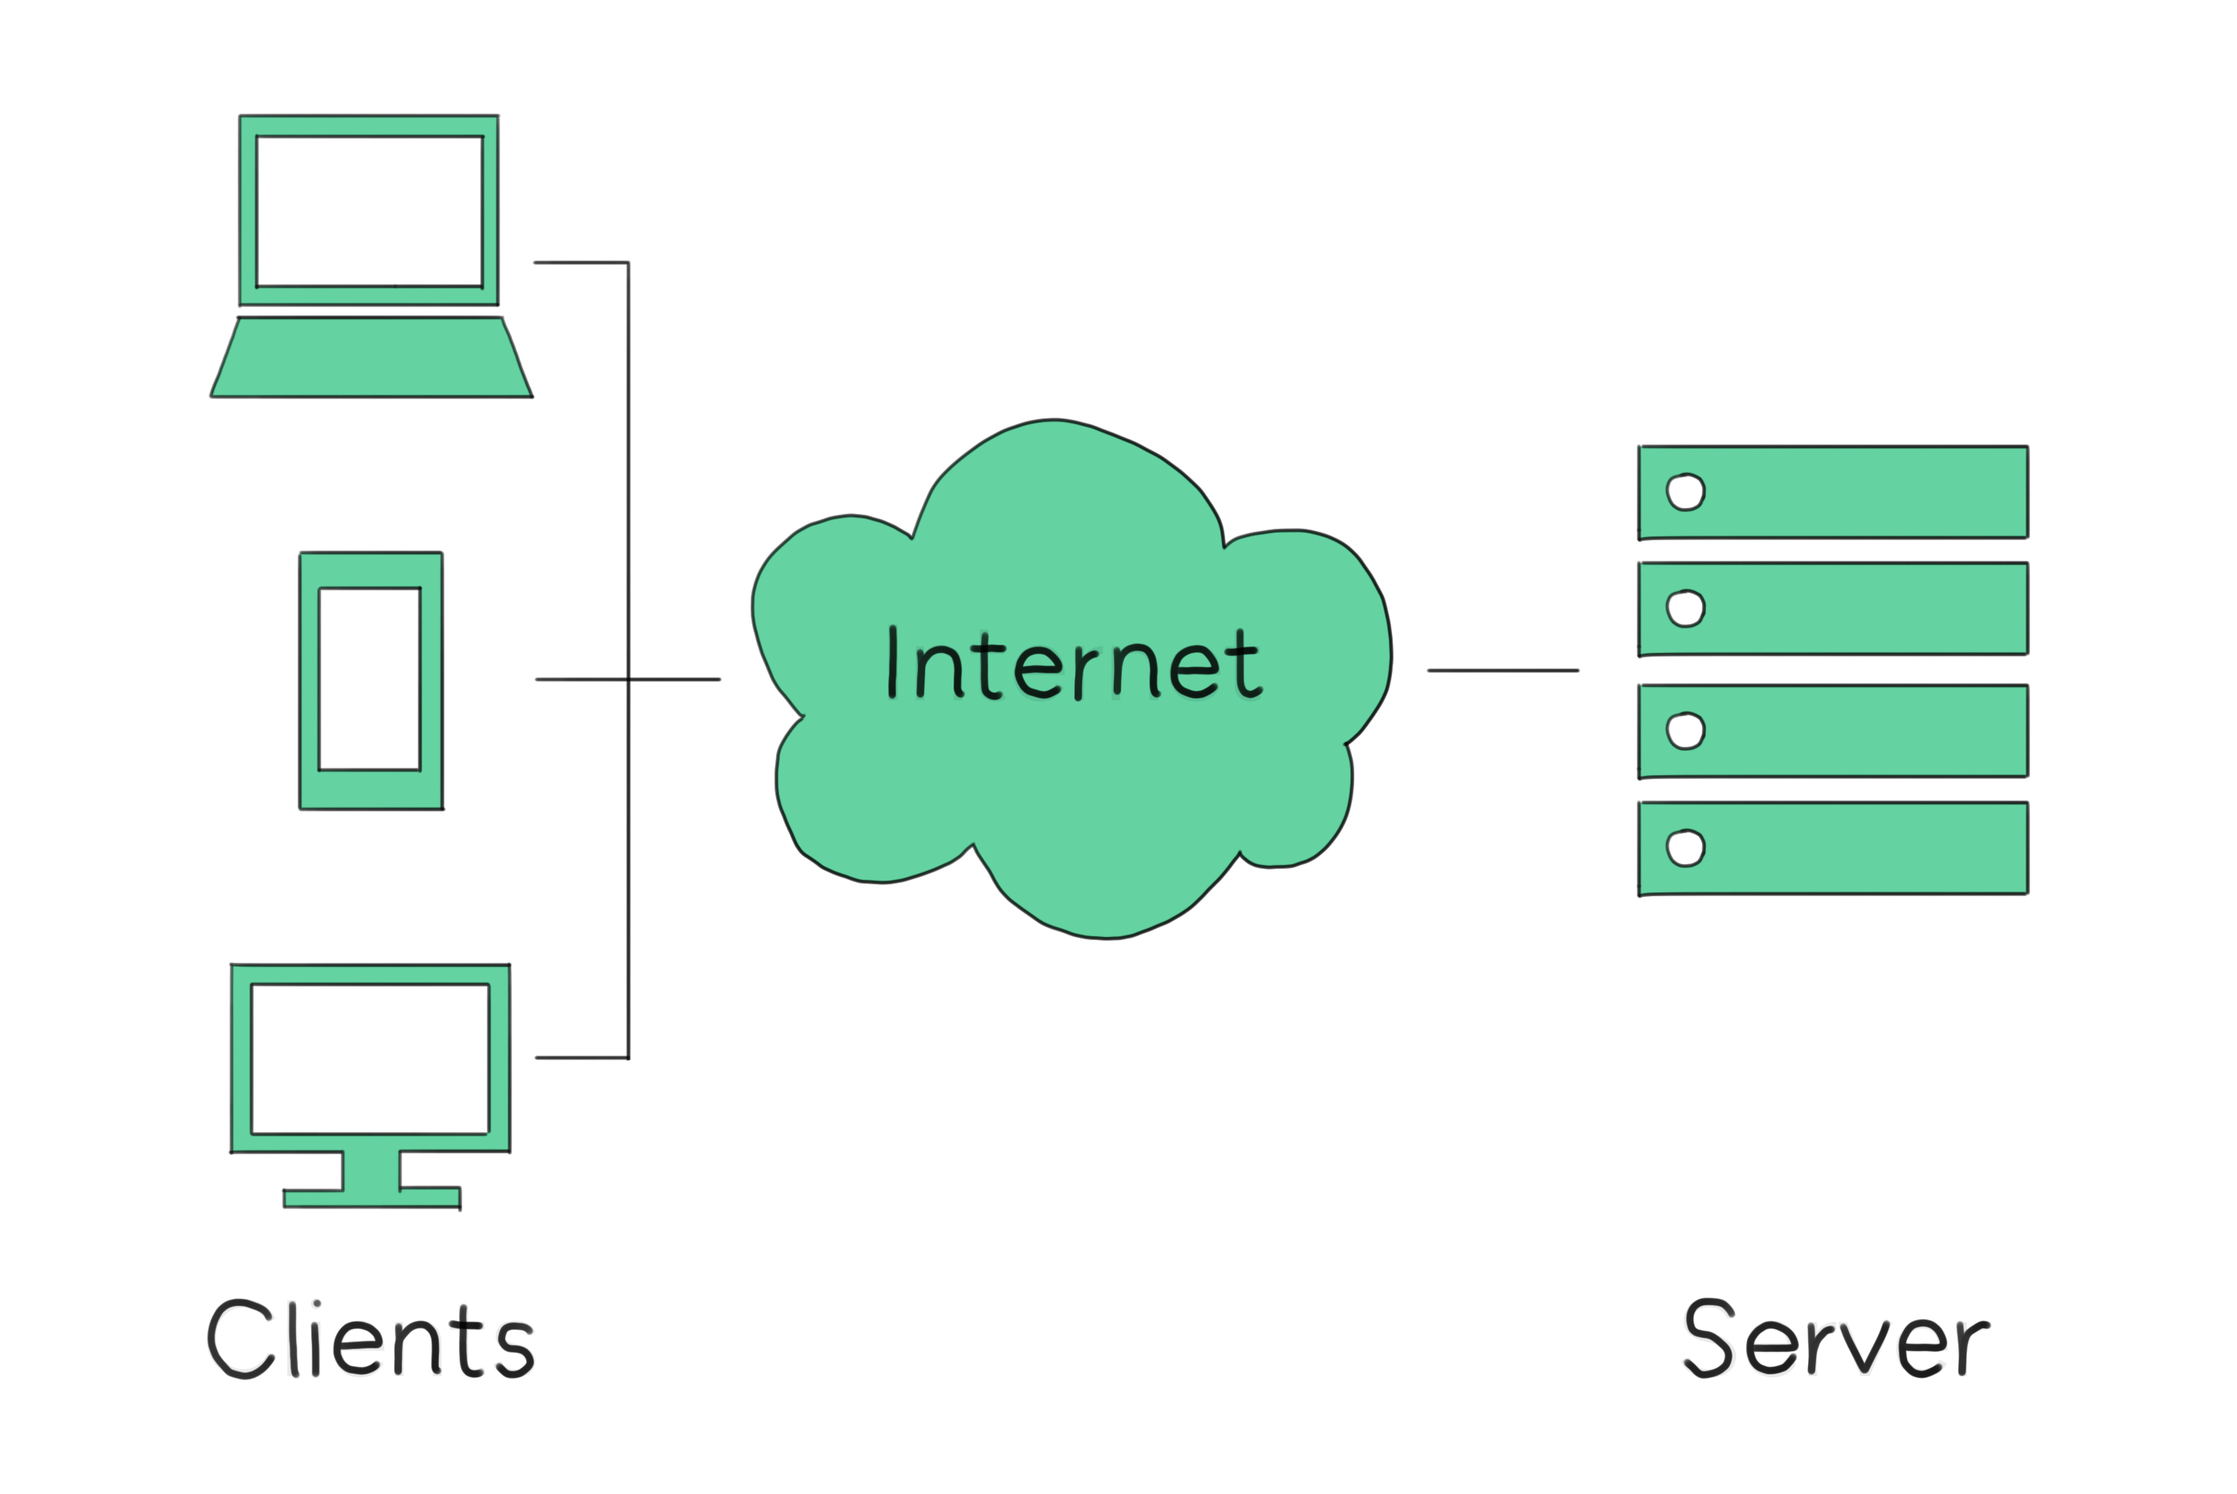
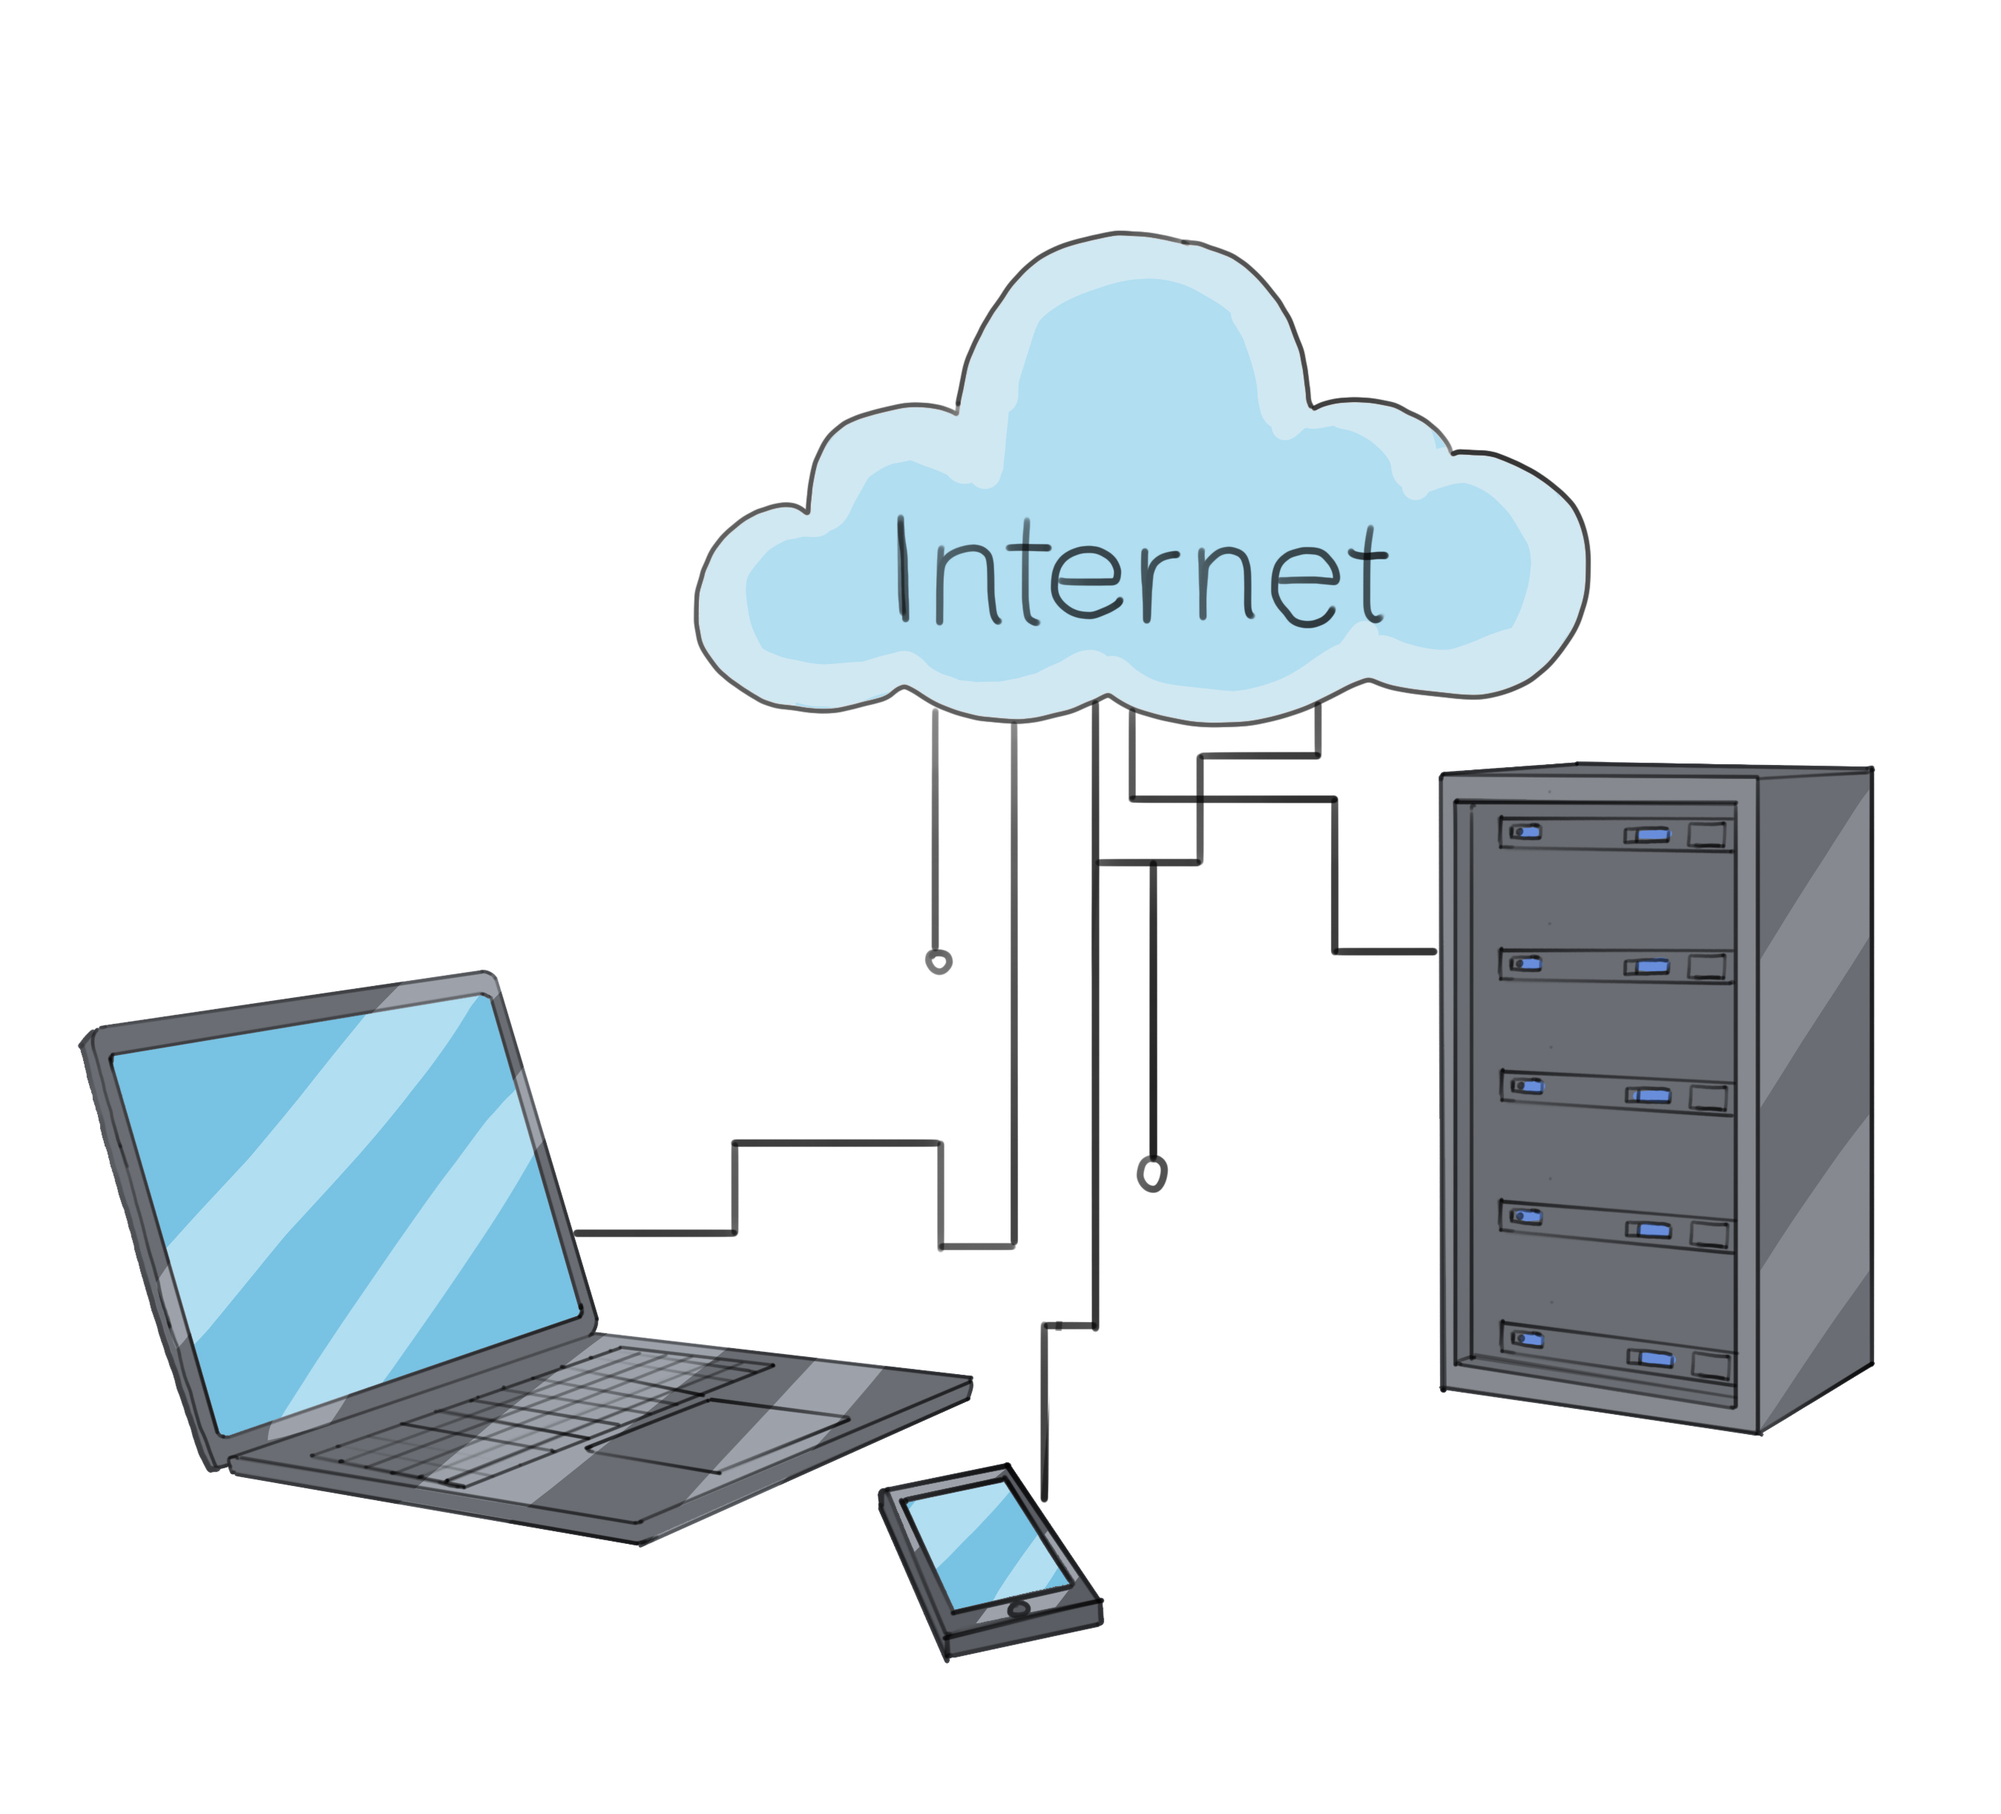
Rename Ch10 'server-client' illustration

diff --git a/programming-fundamentals/chapter10.md b/programming-fundamentals/chapter10.md
@@ -329,7 +329,7 @@ END function
 
 In this pseudocode, the `RequestWebPage(url)` function on the client side (like your web browser) asks the server for a specific webpage by calling `SendRequestToServer(url)`. The server, through `SendRequestToServer(url)`, checks if the requested URL is available. If it is, the `GetPageContent(url)` function retrieves the webpage's content and sends it back to the client. The client then displays this content if there's no error, or shows an error message if the page can't be found. This process exemplifies the basic request-response pattern of web interactions, where the client requests data and the server responds accordingly.
 
-![Client-Server model](./figures/ch-10-server-clients-library2.jpg)
+![Client-Server model](./figures/ch-10-server-clients-library.jpg)
 *A laptop and phone depicted as clients interacting with a server via the internet, highlighting the flow of web interactions.*
 
 This foundational model of clients sending requests to servers, and servers responding accordingly, is central to the operation of the internet. In fact, this happens to be a basic example of key concepts in web development known as front-end and back-end.
